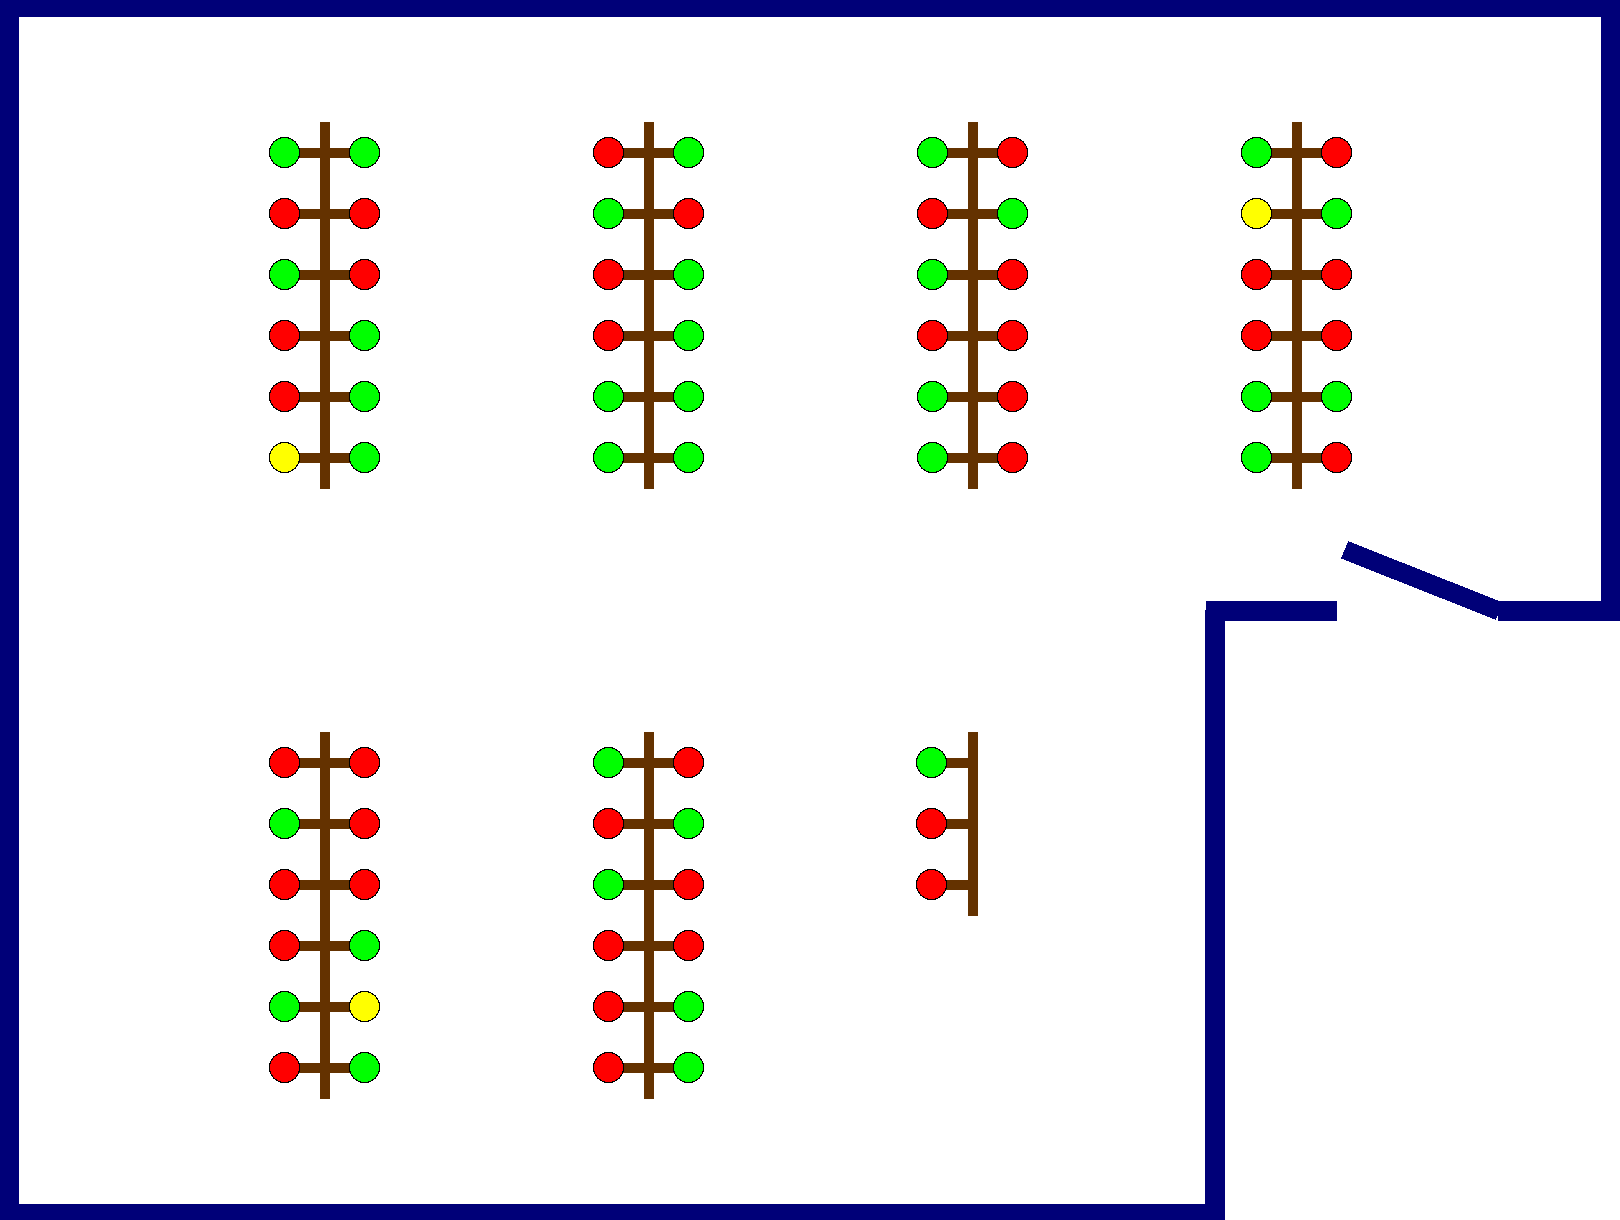
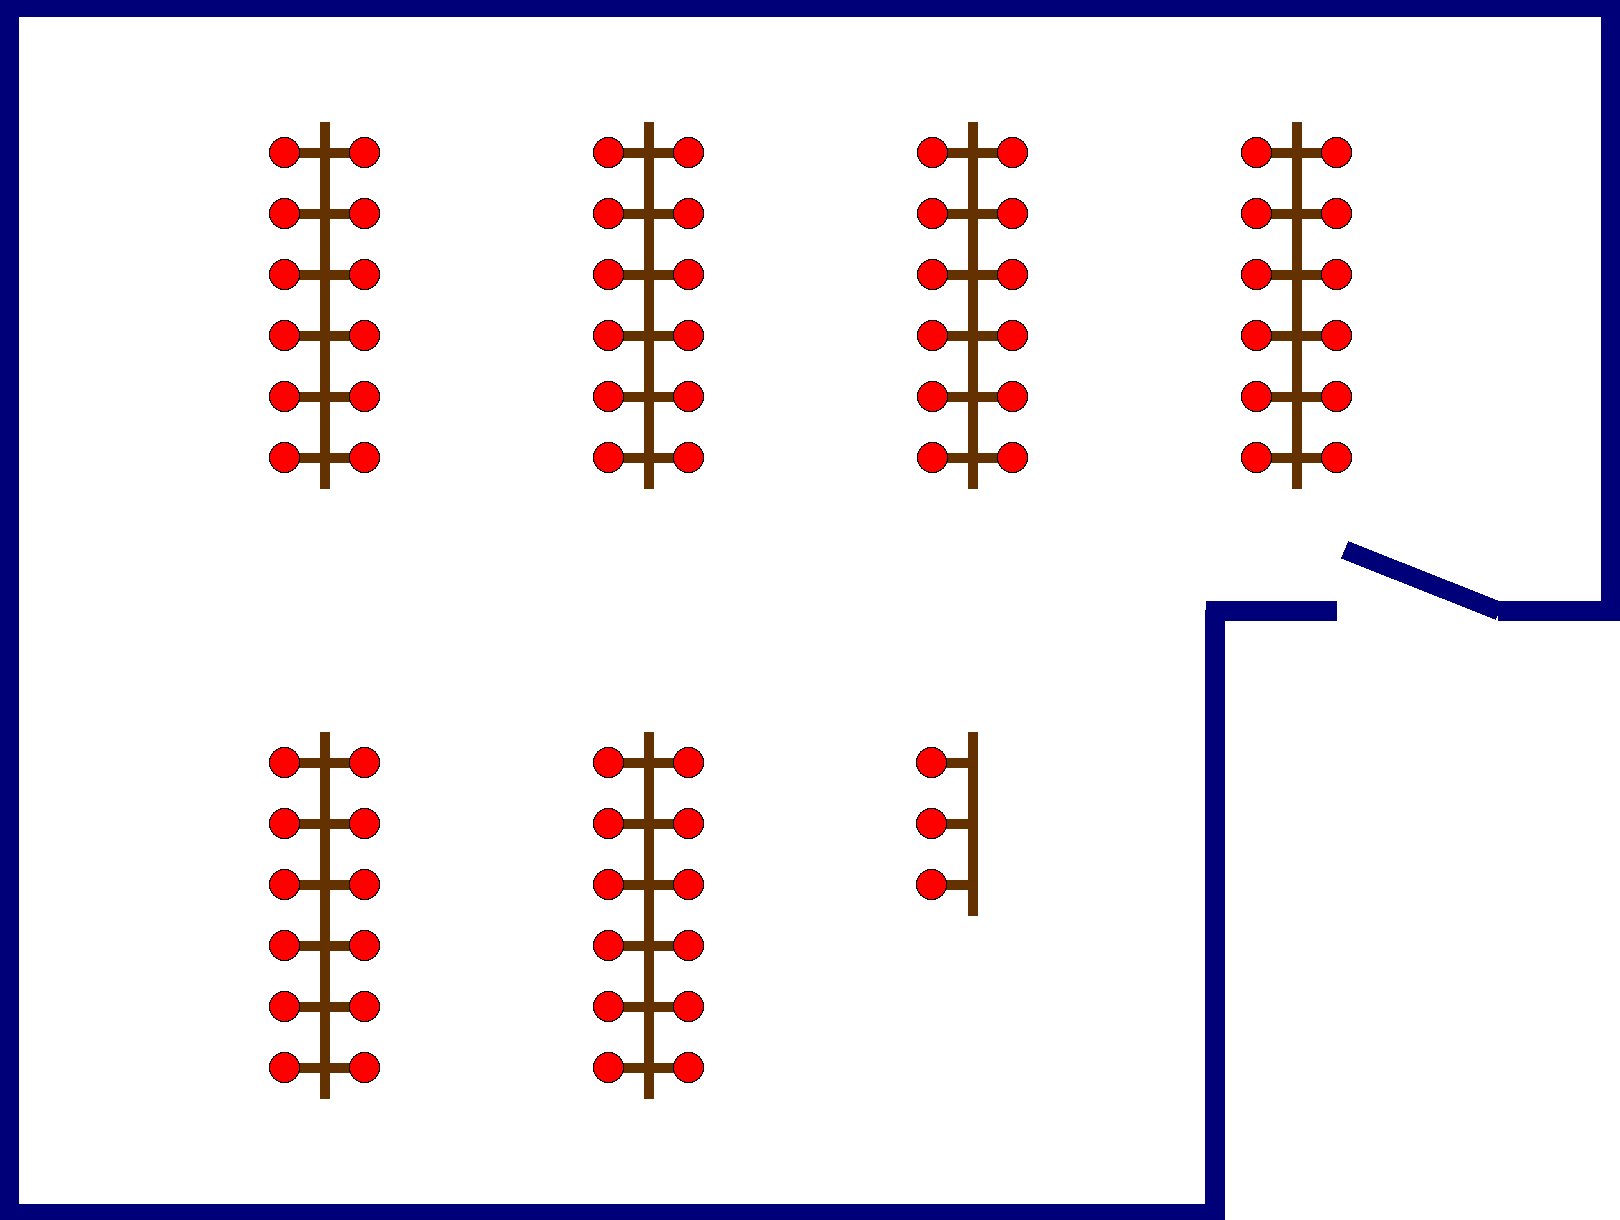
got it all working again with the new database structure. draws tootill 0 as well with no margin

diff --git a/DrawingScripts/Tootill0/drawTootill0.py b/DrawingScripts/Tootill0/drawTootill0.py
@@ -44,80 +44,94 @@ def imDrawer():
   # define values for easy reference:
     # horizontals:
   a = int(0.005*cWidth) # 200/1000
-  b = int(0.45*cWidth) # 450/1000
-  b2 = int(0.455*cWidth) # 450/1000
+  b = int(0.6*cWidth) # 450/1000
+  b2 = b - int(0.005*cS) # 450/1000
   c = int(0.995*cWidth) # 800/1000
+
   d = int(0.05*cWidth) # 250/1000
-  e = int(0.32*cWidth) # 400/1000
-  f = int(0.59*cWidth) # 550/1000
-  g = int(0.86*cWidth) # 700/1000
+  e = int(0.25*cWidth) # 400/1000
+  f = int(0.35*cWidth) # 550/1000
+  g = int(0.55*cWidth) # 700/1000
+  h = int(0.75*cWidth) # 700/1000
 
     # verticals:
-  r = int(0.025*cHeight) # 110/1000
-  s = int(0.425*cHeight) # 440/1000
-  t = int(0.49*cHeight) # 490/1000
-  u = int(0.575*cHeight) # 560/1000
-  v = int(0.89*cHeight) # 815/1000
-  w = int(0.975*cHeight) # 890/1000
+  t = int(0.2*cHeight) # 490/1000
+  u = int(0.45*cHeight) # 560/1000
+  v = int(0.7*cHeight) # 815/1000
+  w = int(0.95*cHeight) # 890/1000
+
   x = int(0.005*cHeight) # 100/1000
   y = int(0.55*cHeight) # 550/1000
   z = int(0.995*cHeight) # 900/1000
 
     # numbers for drawing node lines:
-  numA = int(0.585*cHeight) # 575/1000
-  numB = int(0.035*cHeight) # 125/1000
-  numC = int(0.50*cHeight) # 500/1000
-  
+  numA = int(0.075*cWidth) # 575/1000
+  numB = int(0.4*cWidth) # 125/1000
+ 
     # numbers for drawing node lines:
-  nodeStep = int(0.095*cHeight) # 75/1000, vertical distance between node lines
-  nodeWidth = int(0.035*cWidth) # 25/1000, width of a node line on each side of table
-  tableGap = int(0.27*cWidth) # 150/1000
+  nodeStep = int(0.06*cWidth) # 75/1000, vertical distance between node lines
+  nodeStep2 = int(0.075*cWidth) # 75/1000, vertical distance between node lines
+
+  nodeHeight = int(0.025*cHeight) # 25/1000, height of a node line on each side of table
+  tableGap = int(0.25*cHeight) # height between desks
   nodeRadius = int(0.01*cHeight)
 
     # numbers for drawing doors:
-  doorStart = int(0.2*cWidth) # 350/1000
-  doorEnd = int(0.3*cWidth) # 400/1000
+  doorStart = int(0.25*cWidth) # 350/1000
+  doorEnd = int(0.32*cWidth) # 400/1000
   doorHeight = int(0.95*cHeight) # 850/1000
 #-------------------------------------------------------------------------------
 
   # draw lines for room outline:
-  staffDraw.line((0,y,b2,y),fill=roomLines, width=wallWidth)
+  staffDraw.line((a,0,a,cHeight),fill=roomLines, width=wallWidth)
   staffDraw.line((b,y,b,0),fill=roomLines, width=wallWidth)
-  staffDraw.line((b,x,cWidth,x),fill=roomLines, width=wallWidth)
-  staffDraw.line((c,x,c,cHeight),fill=roomLines, width=wallWidth)
+  staffDraw.line((0,x,b,x),fill=roomLines, width=wallWidth)
+  staffDraw.line((b2,y,cWidth,y),fill=roomLines, width=wallWidth)
+  staffDraw.line((c,y,c,cHeight),fill=roomLines, width=wallWidth)
   staffDraw.line((c,z,doorEnd,z),fill=roomLines, width=wallWidth)
   staffDraw.line((doorStart,z,0,z),fill=roomLines, width=wallWidth)
-  staffDraw.line((a,z,a,y),fill=roomLines, width=wallWidth)
 
-  studentDraw.line((0,y,b2,y),fill=roomLines, width=wallWidth)
+  # draw lines for room outline:
+  studentDraw.line((a,0,a,cHeight),fill=roomLines, width=wallWidth)
   studentDraw.line((b,y,b,0),fill=roomLines, width=wallWidth)
-  studentDraw.line((b,x,cWidth,x),fill=roomLines, width=wallWidth)
-  studentDraw.line((c,x,c,cHeight),fill=roomLines, width=wallWidth)
+  studentDraw.line((0,x,b,x),fill=roomLines, width=wallWidth)
+  studentDraw.line((b2,y,cWidth,y),fill=roomLines, width=wallWidth)
+  studentDraw.line((c,y,c,cHeight),fill=roomLines, width=wallWidth)
   studentDraw.line((c,z,doorEnd,z),fill=roomLines, width=wallWidth)
   studentDraw.line((doorStart,z,0,z),fill=roomLines, width=wallWidth)
-  studentDraw.line((a,z,a,y),fill=roomLines, width=wallWidth)
 
   # draw lines for door:
   staffDraw.line((doorStart,z,doorEnd,doorHeight),fill=roomLines, width=wallWidth)
   studentDraw.line((doorStart,z,doorEnd,doorHeight),fill=roomLines, width=wallWidth)
 
 #-------------------------------------------------------------------------------
-
   # draw lines for computer tables:
-  staffDraw.line((d,u,d,w),fill=computerDesks, width=tableWidth)
-  staffDraw.line((e,u,e,v),fill=computerDesks, width=tableWidth)
-  staffDraw.line((f,r,f,s),fill=computerDesks, width=tableWidth)
-  staffDraw.line((f,t,f,v),fill=computerDesks, width=tableWidth)
-  staffDraw.line((g,r,g,s),fill=computerDesks, width=tableWidth)
-  staffDraw.line((g,t,g,v),fill=computerDesks, width=tableWidth)
 
-  studentDraw.line((d,u,d,w),fill=computerDesks, width=tableWidth)
-  studentDraw.line((e,u,e,v),fill=computerDesks, width=tableWidth)
-  studentDraw.line((f,r,f,s),fill=computerDesks, width=tableWidth)
-  studentDraw.line((f,t,f,v),fill=computerDesks, width=tableWidth)
-  studentDraw.line((g,r,g,s),fill=computerDesks, width=tableWidth)
-  studentDraw.line((g,t,g,v),fill=computerDesks, width=tableWidth)
+  # left column:
+  staffDraw.line((d,t,e,t),fill=computerDesks, width=tableWidth)
+  staffDraw.line((d,u,e,u),fill=computerDesks, width=tableWidth)
+  staffDraw.line((d,v,e,v),fill=computerDesks, width=tableWidth)
+  staffDraw.line((d,w,e,w),fill=computerDesks, width=tableWidth)
 
+  studentDraw.line((d,t,e,t),fill=computerDesks, width=tableWidth)
+  studentDraw.line((d,u,e,u),fill=computerDesks, width=tableWidth)
+  studentDraw.line((d,v,e,v),fill=computerDesks, width=tableWidth)
+  studentDraw.line((d,w,e,w),fill=computerDesks, width=tableWidth)
+
+  # right column, top two rows:
+  staffDraw.line((f,t,g,t),fill=computerDesks, width=tableWidth)
+  staffDraw.line((f,u,g,u),fill=computerDesks, width=tableWidth)
+
+  studentDraw.line((f,t,g,t),fill=computerDesks, width=tableWidth)
+  studentDraw.line((f,u,g,u),fill=computerDesks, width=tableWidth)
+  
+  # right column, botttom two rows:
+  staffDraw.line((f,v,h,v),fill=computerDesks, width=tableWidth)
+  staffDraw.line((f,w,h,w),fill=computerDesks, width=tableWidth)
+
+  studentDraw.line((f,v,h,v),fill=computerDesks, width=tableWidth)
+  studentDraw.line((f,w,h,w),fill=computerDesks, width=tableWidth)
+  
 #-------------------------------------------------------------------------------
 
   # draw node lines on computer tables and add coordinates of nodes to array:
@@ -132,40 +146,46 @@ def imDrawer():
   nodeCoords = []                                     # array for node coordinates
 
 
+  # for left column except bottom desk
+  for i in xrange(numA,e,nodeStep):
+    for j in xrange(t,v+1,tableGap):
+      staffDraw.line((i, j-nodeHeight, i, j+nodeHeight),fill=computerDesks, width=tableWidth) 
+      studentDraw.line((i, j-nodeHeight, i, j+nodeHeight),fill=computerDesks, width=tableWidth) 
+      nodeCoords.append((i, j-nodeHeight))
+      nodeCoords.append((i, j+nodeHeight))
+
+  # for bottom desk in left column
+  for i in xrange(numA,e,nodeStep):
+    staffDraw.line((i, w, i, w-nodeHeight),fill=computerDesks, width=tableWidth)
+    studentDraw.line((i, w, i, w-nodeHeight),fill=computerDesks, width=tableWidth)
+    nodeCoords.append((i,w-nodeHeight))
+
+  # for right column, top two desks
+  for i in xrange(numB,g,nodeStep):
+    for j in xrange(t,u+1,tableGap):
+      staffDraw.line((i, j-nodeHeight, i, j+nodeHeight),fill=computerDesks, width=tableWidth) 
+      studentDraw.line((i, j-nodeHeight, i, j+nodeHeight),fill=computerDesks, width=tableWidth) 
+      nodeCoords.append((i, j-nodeHeight))
+      nodeCoords.append((i, j+nodeHeight))
+
+  # for right column, third desk from the top, top half
+  for i in xrange(numB,h,nodeStep):
+    staffDraw.line((i, v, i, v-nodeHeight),fill=computerDesks, width=tableWidth) 
+    studentDraw.line((i, v, i, v-nodeHeight),fill=computerDesks, width=tableWidth) 
+    nodeCoords.append((i, v-nodeHeight))
+
+  # for right column, third desk from the top, bottom half
+  for i in xrange(numB,h,nodeStep2):
+    staffDraw.line((i, v, i, v+nodeHeight),fill=computerDesks, width=tableWidth) 
+    studentDraw.line((i, v, i, v+nodeHeight),fill=computerDesks, width=tableWidth) 
+    nodeCoords.append((i, v+nodeHeight))
 
 
-    # for bottom row, first column of computer desks:
-  for j in xrange(numA, w, nodeStep):                             # for each row
-    staffDraw.line((d, j, d+nodeWidth, j),fill=computerDesks, width=tableWidth) 
-    studentDraw.line((d, j, d+nodeWidth, j),fill=computerDesks, width=tableWidth) 
-    nodeCoords.append((d+nodeWidth, j))
-
-
-    # for bottom row, second column of computer desks:
-  for j in xrange(numA, v, nodeStep):                               # for each row
-    staffDraw.line((e-nodeWidth,j,e+nodeWidth,j),fill=computerDesks, width=tableWidth)
-    studentDraw.line((e-nodeWidth,j,e+nodeWidth,j),fill=computerDesks, width=tableWidth)
-    nodeCoords.append((e-nodeWidth, j))
-    nodeCoords.append((e+nodeWidth, j))
-
-
-    # for two bottom right rows of computer desks:
-  for i in xrange(f,c,tableGap): # for each column
-    for j in xrange(numC, v, nodeStep):                                 # for each row
-      staffDraw.line((i-nodeWidth, j, i+nodeWidth, j),fill=computerDesks, width=tableWidth) # draw a line
-      studentDraw.line((i-nodeWidth, j, i+nodeWidth, j),fill=computerDesks, width=tableWidth) # draw a line
-      nodeCoords.append((i-nodeWidth, j))
-      nodeCoords.append((i+nodeWidth, j))
-
-
-    # for top row of computer desks:
-  for i in xrange(f,c,tableGap): # for each column
-    for j in xrange(numB, s, nodeStep):                                 # for each row
-      staffDraw.line((i-nodeWidth, j, i+nodeWidth, j),fill=computerDesks, width=tableWidth) # draw a line
-      studentDraw.line((i-nodeWidth, j, i+nodeWidth, j),fill=computerDesks, width=tableWidth) # draw a line
-      nodeCoords.append((i-nodeWidth, j))                    # add node coords to array
-      nodeCoords.append((i+nodeWidth, j))                    # add node coords to array
-
+  # for right column, bottom desk
+  for i in xrange(numB,h,nodeStep):
+    staffDraw.line((i, w, i, w-nodeHeight),fill=computerDesks, width=tableWidth) 
+    studentDraw.line((i, w, i, w-nodeHeight),fill=computerDesks, width=tableWidth) 
+    nodeCoords.append((i,w-nodeHeight))
 
 
 #-------------------------------------------------------------------------------
@@ -179,9 +199,6 @@ def imDrawer():
   colour = (255,255,255)
   nextStatus = ""
 
-  noGroups = True
-  if len(desiredGroups) != 0: # if there is no lab scheduled at the current time
-    noGroups = False
 
 
   for node in nodeCoords:
@@ -189,7 +206,7 @@ def imDrawer():
     nextStatus = cursor.fetchone()  # this returns a tuple in which the first value is the colour of that seat
     nextStatus = nextStatus[0].split(",")
 
-    if nextStatus[1] == "empty":                   # if the computer is free
+    if nextStatus[2] == "empty":                   # if the computer is free
       colour = nodeGreen
     elif nextStatus in desiredGroups: # if occupied by desired lab group
       colour = nodeYellow
@@ -200,7 +217,7 @@ def imDrawer():
 
 
   # draw nodes on student image:
-    if nextStatus[1] == "empty":                   # if the computer is free
+    if nextStatus[2] == "empty":                   # if the computer is free
       studentDraw.ellipse((node[0]-nodeRadius, node[1]-nodeRadius, node[0]+nodeRadius, node[1]+nodeRadius), fill = nodeGreen, outline = (0,0,0))
 
     else:
@@ -209,12 +226,15 @@ def imDrawer():
 
 #-------------------------------------------------------------------------------
 
+###########
+  staffImg.save("test.png")
+###########
   # push staff image to db
   buffer = cStringIO.StringIO()
   staffImg.save(buffer, format="PNG")
   staff_encoded = base64.b64encode(buffer.getvalue())
 
-  command = "UPDATE base64Images SET `Tootill 1`='" + staff_encoded + "' WHERE Type='Staff'"
+  command = "UPDATE base64Images SET `Tootill 0`='" + staff_encoded + "' WHERE Type='Staff'"
   cursor.execute(command)
 
 
@@ -223,7 +243,7 @@ def imDrawer():
   studentImg.save(buffer, format="PNG")
   student_encoded = base64.b64encode(buffer.getvalue())
 
-  command = "UPDATE base64Images SET `Tootill 1`='" + student_encoded + "' WHERE Type='Student'"
+  command = "UPDATE base64Images SET `Tootill 0`='" + student_encoded + "' WHERE Type='Student'"
   cursor.execute(command)
 
 
@@ -270,7 +290,7 @@ cursor = db.cursor()
 desiredGroups = []
 numOfRows = cursor.execute("SELECT COUNT(*) FROM desiredGroups")  # returns number of desired groups
 
-cursor.execute("SELECT `Tootill 1` FROM desiredGroups") # points cursor to correct place
+cursor.execute("SELECT `Tootill 0` FROM desiredGroups") # points cursor to correct place
 
 desiredGroups.append(cursor.fetchone()) # adds group name to array of desired groups
 

diff --git a/DrawingScripts/testDecodeImage.php b/DrawingScripts/testDecodeImage.php
@@ -27,24 +27,32 @@
   $queryLF31Student = "SELECT LF31 FROM base64Images WHERE Type = 'Student'";
   $queryTootill1Staff = "SELECT `Tootill 1` FROM base64Images WHERE Type = 'Staff'";
   $queryTootill1Student = "SELECT `Tootill 1` FROM base64Images WHERE Type = 'Student'";
+  $queryTootill0Staff = "SELECT `Tootill 0` FROM base64Images WHERE Type = 'Staff'";
+  $queryTootill0Student = "SELECT `Tootill 0` FROM base64Images WHERE Type = 'Student'";
 
 
   $resultLF31Staff = mysqli_query($conn, $queryLF31Staff);
   $resultLF31Student = mysqli_query($conn, $queryLF31Student);
   $resultTootill1Staff = mysqli_query($conn, $queryTootill1Staff);
   $resultTootill1Student = mysqli_query($conn, $queryTootill1Student);
+  $resultTootill0Staff = mysqli_query($conn, $queryTootill0Staff);
+  $resultTootill0Student = mysqli_query($conn, $queryTootill0Student);
 
 
   $staffStringLF31 = array_values(mysqli_fetch_assoc($resultLF31Staff)); # numerically indexed array
   $studentStringLF31 = array_values(mysqli_fetch_assoc($resultLF31Student)); # numerically indexed array
   $staffStringTootill1 = array_values(mysqli_fetch_assoc($resultTootill1Staff)); # numerically indexed array
   $studentStringTootill1 = array_values(mysqli_fetch_assoc($resultTootill1Student)); # numerically indexed array
+  $staffStringTootill0 = array_values(mysqli_fetch_assoc($resultTootill0Staff)); # numerically indexed array
+  $studentStringTootill0 = array_values(mysqli_fetch_assoc($resultTootill0Student)); # numerically indexed array
 
 
   file_put_contents('LF31Staff.png', base64_decode($staffStringLF31[0]));
   file_put_contents('LF31Student.png', base64_decode($studentStringLF31[0]));
   file_put_contents('Tootill1Staff.png', base64_decode($staffStringTootill1[0]));
   file_put_contents('Tootill1Student.png', base64_decode($studentStringTootill1[0]));
+  file_put_contents('Tootill0Staff.png', base64_decode($staffStringTootill0[0]));
+  file_put_contents('Tootill0Student.png', base64_decode($studentStringTootill0[0]));
 
 
 

diff --git a/DrawingScripts/LF31/drawLF31.py b/DrawingScripts/LF31/drawLF31.py
@@ -151,7 +151,7 @@ def imDrawer():
 
   nodeDiameter = int(0.013*cHeight)
 
-  cursor.execute("SELECT LF31 FROM compStatus") # point cursor to status column
+  cursor.execute("SELECT labs FROM compStatus") # point cursor to status column
 
   # define empty strings which we will give values to later:
   colour = (255,255,255)
@@ -160,6 +160,7 @@ def imDrawer():
   for node in nodeCoords:
     # calculate node colour based off of status from database:
     nextStatus = cursor.fetchone()  # this returns a tuple in which the first value is the colour of that seat
+    nextStatus = nextStatus[0].split(",")
 
     if nextStatus[0] == "empty":                   # if the computer is free
       colour = nodeGreen
